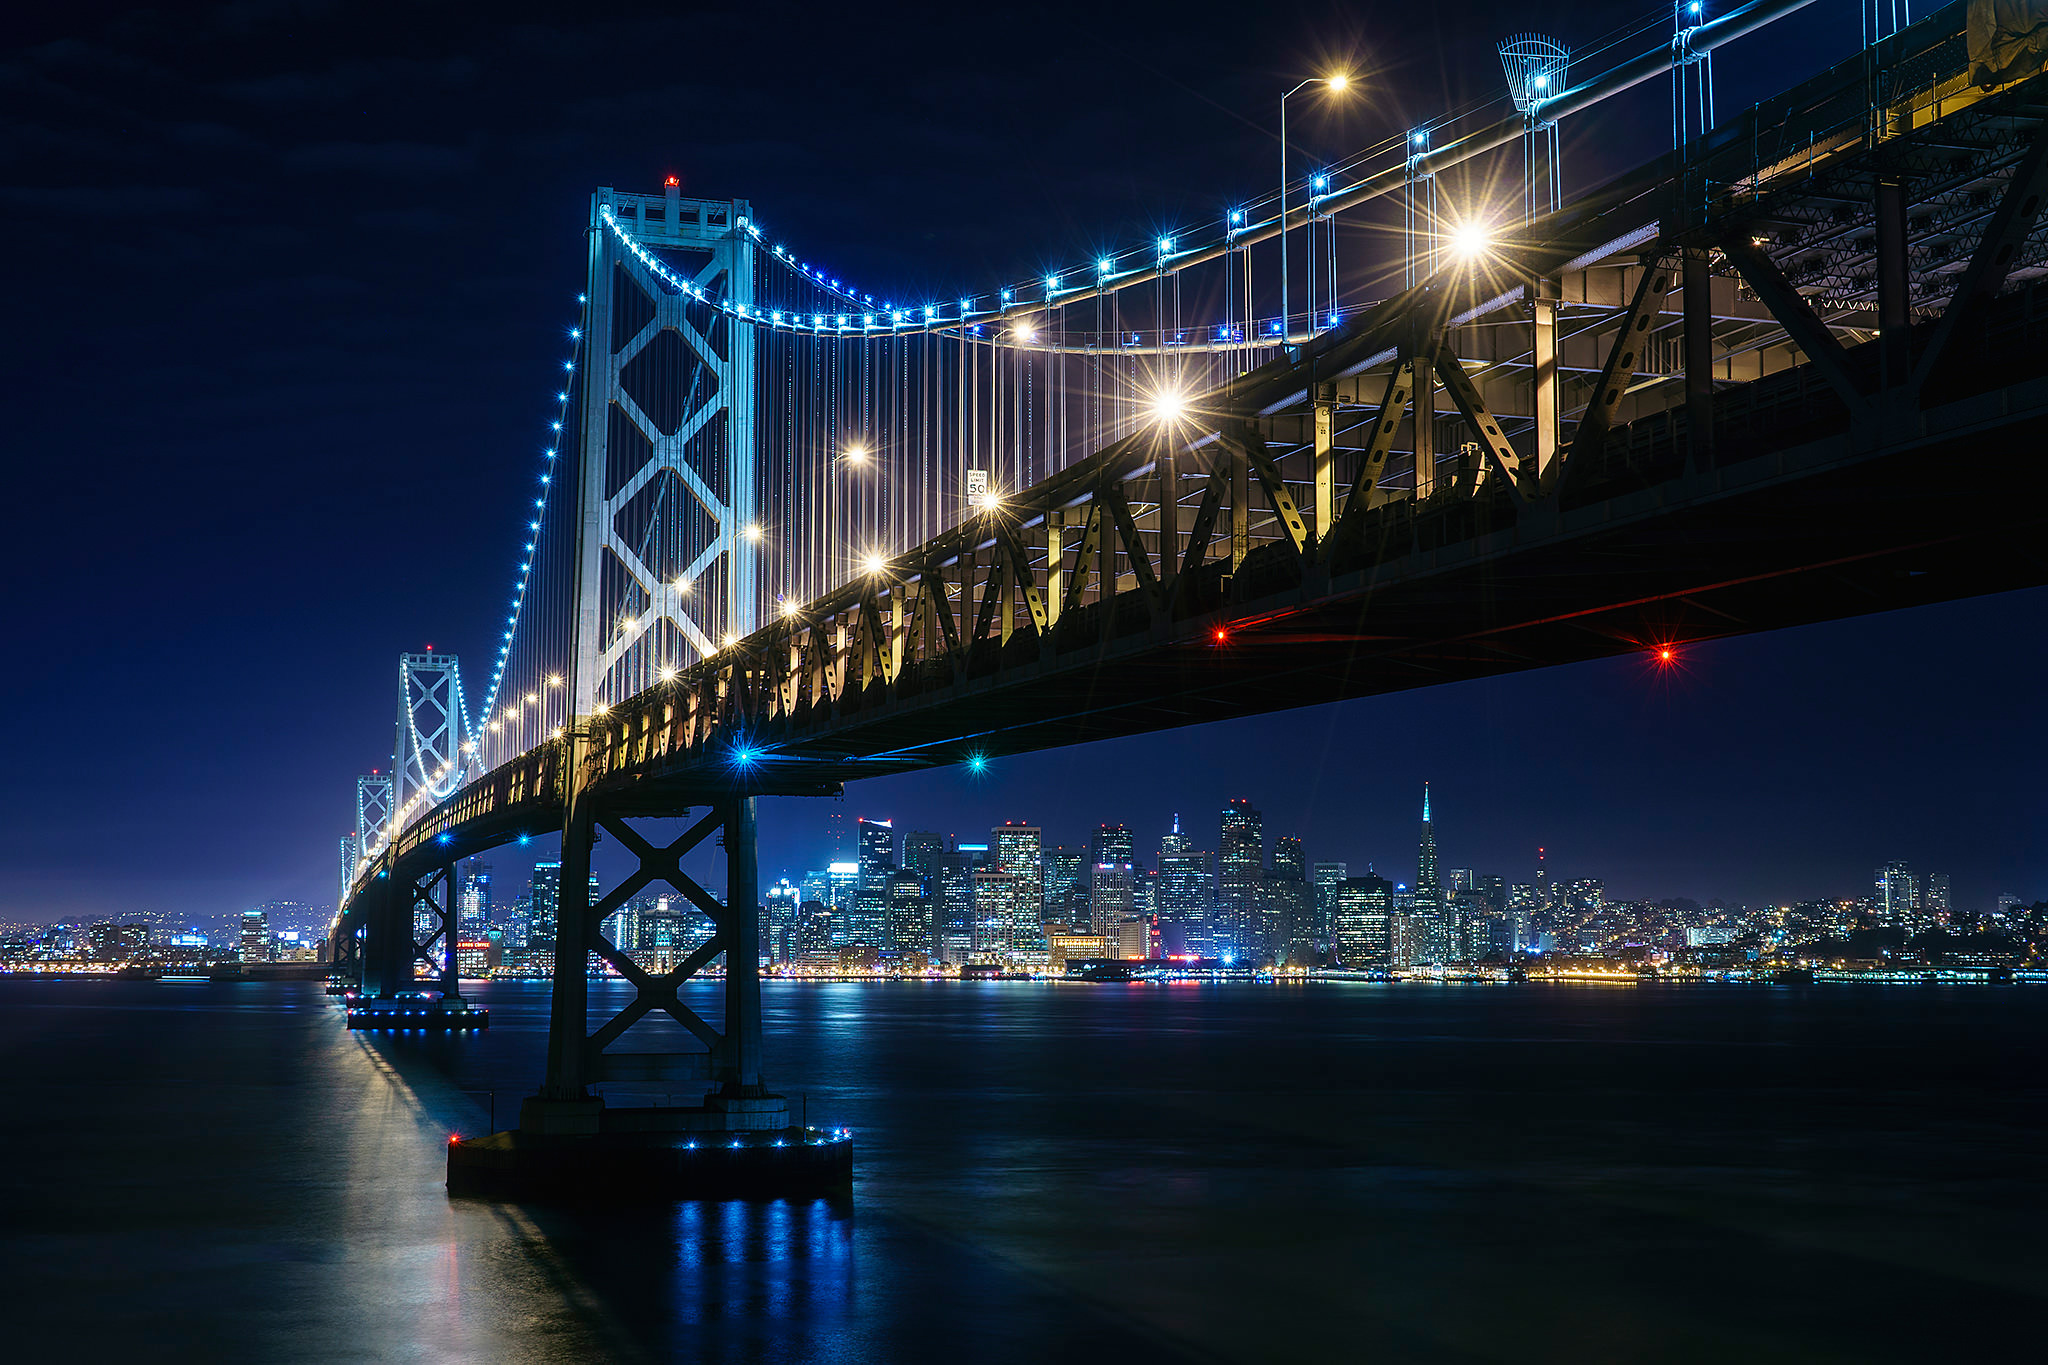
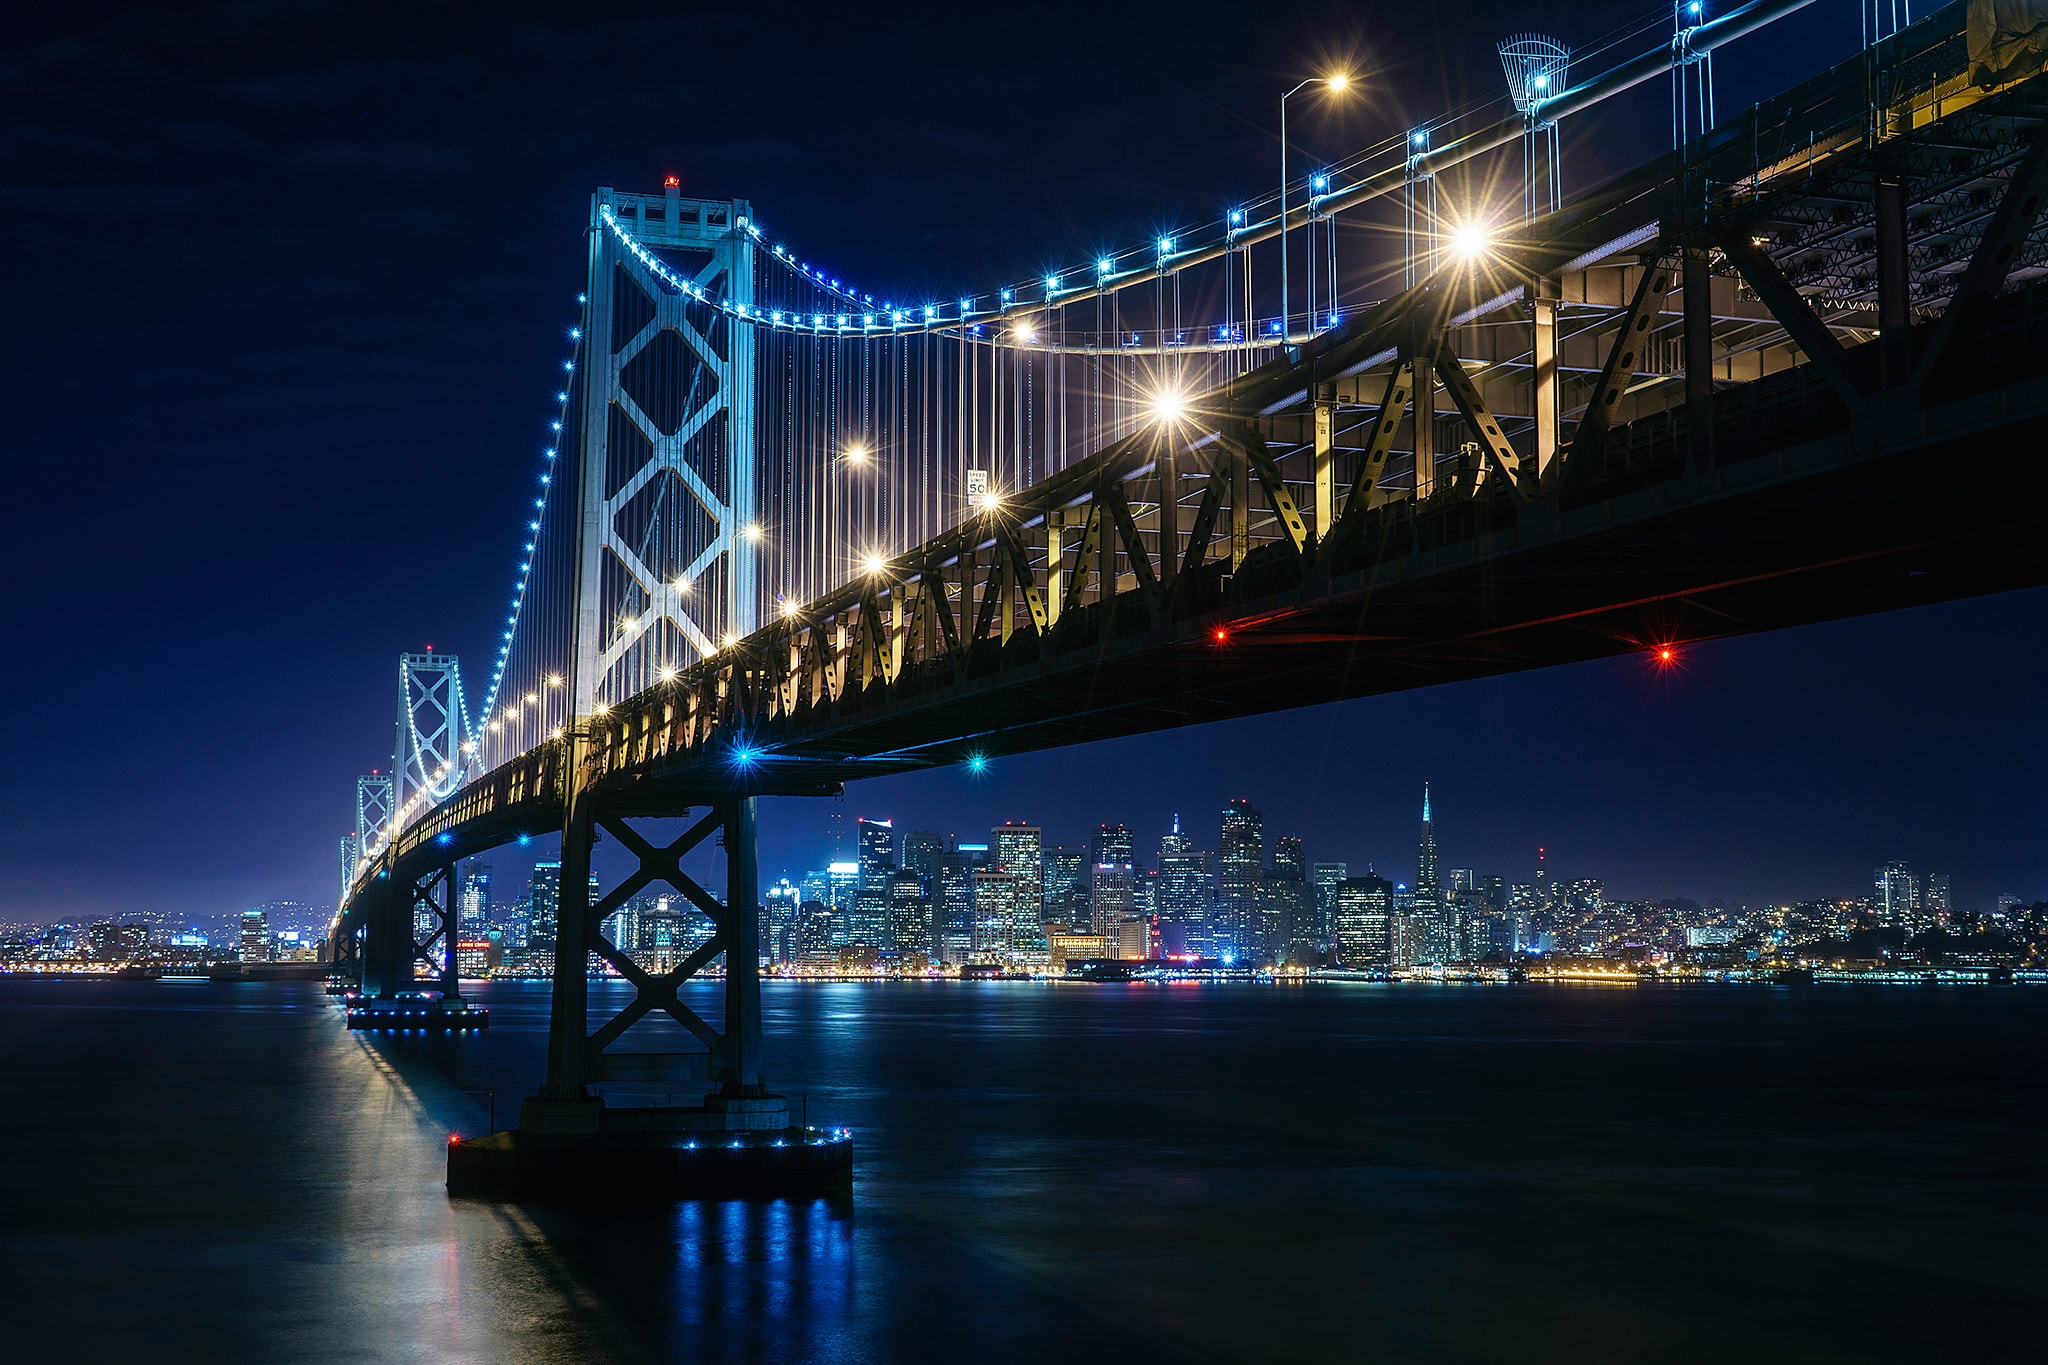
compress images, remove unused assets, changed background image

diff --git a/index.html b/index.html
@@ -71,7 +71,7 @@
 
 			<!-- Two -->
 				<section id="one" class="spotlight style1 left">
-					<span class="image fit main"><img src="images/mixr.png" alt="" /></span>
+					<span class="image fit main"><img src="images/mixr.jpg" alt="" /></span>
 					<div class="content">
 						<header>
 							<h2>Mixr</h2>
@@ -89,8 +89,8 @@
 			<!-- Three -->
 				<section id="two" class="spotlight style2 right">
 					<span class="image fit main bottom hover2"><img
-						src="images/instructions.png"
-						data-src="images/instructions.png"
+						src="images/instructions.jpg"
+						data-src="images/instructions.jpg"
 						data-hover="https://giant.gfycat.com/SimplisticPleasedIrukandjijellyfish.gif" alt="" /></span>
 					<div class="content">
 						<header>
@@ -107,7 +107,7 @@
 				</section>
 
 				<section id="three" class="spotlight style3 left">
-					<span class="image fit main"><img src="images/dgl.png" alt="" /></span>
+					<span class="image fit main"><img src="images/dgl.jpg" alt="" /></span>
 					<div class="content">
 						<header>
 							<h2>Don't Get Lost</h2>

diff --git a/assets/css/main.css b/assets/css/main.css
@@ -3338,7 +3338,7 @@
 	#banner {
 		background-attachment: fixed;
 		background-color: #272833;
-		background-image: url("../../images/sf3.jpg");
+		background-image: url("../../images/sf.jpg");
 		background-position: center center;
 		background-size: cover;
 		box-shadow: 0 0.25em 0.5em 0 rgba(0, 0, 0, 0.25);
